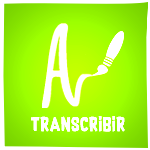
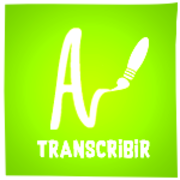
Botones a elegirJuego

diff --git a/Madaline/src/UI/ElegirJuego.java b/Madaline/src/UI/ElegirJuego.java
@@ -7,46 +7,44 @@ import static UI.Start.puntero;
 import java.awt.Toolkit;
 import javax.swing.JPanel;
 
-
 public class ElegirJuego extends javax.swing.JFrame {
 
     Controlador aplicacion;
     javax.swing.JFrame padre;
-    Wallpaper wall;
+    Wallpaper wall, texto_jugar;
 
     public ElegirJuego(javax.swing.JFrame padre, Controlador aplicacion) {
         initComponents();
-        //setExtendedState(MAXIMIZED_BOTH);
+        setExtendedState(MAXIMIZED_BOTH);
         // Maximizar ventana en linux
-        Toolkit tk = Toolkit.getDefaultToolkit();  
-        int xSize = ((int) tk.getScreenSize().getWidth());  
-        int ySize = ((int) tk.getScreenSize().getHeight());  
-        setSize(xSize,ySize);
+//        Toolkit tk = Toolkit.getDefaultToolkit();  
+//        int xSize = ((int) tk.getScreenSize().getWidth());  
+//        int ySize = ((int) tk.getScreenSize().getHeight());  
+//        setSize(xSize,ySize);
         //
+        pnl_botones.setLocation((pnl_texto.getWidth() - pnl_botones.getWidth()) / 2,
+                (pnl_texto.getHeight() - pnl_botones.getHeight()) / 2);
         this.padre = padre;
         this.aplicacion = aplicacion;
-
+        
         setOpaque();
         setWallpaper();
         setwhitepanel();
-       
 
     }
-    
-     private void setWallpaper(){
-         wall = new Wallpaper("/Iconos/wall_dificultad.jpg", pnl_fondo);
-//        wall.setSize(pnl_fondo.getSize());
-//        pnl_fondo.add(wall);
+
+    private void setWallpaper() {
+        wall = new Wallpaper("/Iconos/wallpaper_elegir.gif", pnl_fondo);
+        texto_jugar = new Wallpaper("/Iconos/texto_juegos.png", pnl_texto, true);
     }
 
     private void setwhitepanel() {
 
-        for (JPanel panel : new JPanel[]{pnl_botones}) {
+        for (JPanel panel : new JPanel[]{pnl_botones,pnl_texto}) {
 
             panel.setOpaque(false);
         }
     }
-
 
     private void setOpaque() {
 
@@ -84,13 +82,20 @@ public class ElegirJuego extends javax.swing.JFrame {
             }
         });
 
+        pnl_texto.setBackground(new java.awt.Color(26, 26, 206));
+
         pnl_botones.setBackground(new java.awt.Color(37, 176, 145));
+        pnl_botones.addComponentListener(new java.awt.event.ComponentAdapter() {
+            public void componentResized(java.awt.event.ComponentEvent evt) {
+                pnl_botonesComponentResized(evt);
+            }
+        });
 
         btn_facil.setIcon(new javax.swing.ImageIcon(getClass().getResource("/Iconos/facil_2.png"))); // NOI18N
         btn_facil.setAlignmentY(0.0F);
         btn_facil.setAutoscrolls(true);
         btn_facil.setRolloverIcon(new javax.swing.ImageIcon(getClass().getResource("/Iconos/facil_1.png"))); // NOI18N
-        btn_facil.setSelectedIcon(new javax.swing.ImageIcon(getClass().getResource("/Iconos/facil_3.png"))); // NOI18N
+        btn_facil.setSelectedIcon(new javax.swing.ImageIcon(getClass().getResource("/Iconos/facil_1.png"))); // NOI18N
         btn_facil.addMouseListener(new java.awt.event.MouseAdapter() {
             public void mouseEntered(java.awt.event.MouseEvent evt) {
                 btn_facilMouseEntered(evt);
@@ -104,7 +109,7 @@ public class ElegirJuego extends javax.swing.JFrame {
 
         btn_normal.setIcon(new javax.swing.ImageIcon(getClass().getResource("/Iconos/normal_2.png"))); // NOI18N
         btn_normal.setRolloverIcon(new javax.swing.ImageIcon(getClass().getResource("/Iconos/normal_1.png"))); // NOI18N
-        btn_normal.setSelectedIcon(new javax.swing.ImageIcon(getClass().getResource("/Iconos/normal_3.png"))); // NOI18N
+        btn_normal.setSelectedIcon(new javax.swing.ImageIcon(getClass().getResource("/Iconos/normal_1.png"))); // NOI18N
         btn_normal.addMouseListener(new java.awt.event.MouseAdapter() {
             public void mouseEntered(java.awt.event.MouseEvent evt) {
                 btn_normalMouseEntered(evt);
@@ -121,11 +126,10 @@ public class ElegirJuego extends javax.swing.JFrame {
         pnl_botonesLayout.setHorizontalGroup(
             pnl_botonesLayout.createParallelGroup(javax.swing.GroupLayout.Alignment.LEADING)
             .addGroup(pnl_botonesLayout.createSequentialGroup()
-                .addGap(24, 24, 24)
-                .addComponent(btn_facil, javax.swing.GroupLayout.PREFERRED_SIZE, 155, javax.swing.GroupLayout.PREFERRED_SIZE)
-                .addPreferredGap(javax.swing.LayoutStyle.ComponentPlacement.RELATED, 112, Short.MAX_VALUE)
-                .addComponent(btn_normal, javax.swing.GroupLayout.PREFERRED_SIZE, 151, javax.swing.GroupLayout.PREFERRED_SIZE)
-                .addContainerGap())
+                .addGap(3, 3, 3)
+                .addComponent(btn_facil, javax.swing.GroupLayout.PREFERRED_SIZE, 184, javax.swing.GroupLayout.PREFERRED_SIZE)
+                .addPreferredGap(javax.swing.LayoutStyle.ComponentPlacement.RELATED, 250, Short.MAX_VALUE)
+                .addComponent(btn_normal, javax.swing.GroupLayout.PREFERRED_SIZE, 186, javax.swing.GroupLayout.PREFERRED_SIZE))
         );
         pnl_botonesLayout.setVerticalGroup(
             pnl_botonesLayout.createParallelGroup(javax.swing.GroupLayout.Alignment.LEADING)
@@ -137,60 +141,57 @@ public class ElegirJuego extends javax.swing.JFrame {
                 .addContainerGap(javax.swing.GroupLayout.DEFAULT_SIZE, Short.MAX_VALUE))
         );
 
-        btn_volver.setText("volver al futuro");
-        btn_volver.addActionListener(new java.awt.event.ActionListener() {
-            public void actionPerformed(java.awt.event.ActionEvent evt) {
-                btn_volverActionPerformed(evt);
-            }
-        });
-
         javax.swing.GroupLayout pnl_textoLayout = new javax.swing.GroupLayout(pnl_texto);
         pnl_texto.setLayout(pnl_textoLayout);
         pnl_textoLayout.setHorizontalGroup(
             pnl_textoLayout.createParallelGroup(javax.swing.GroupLayout.Alignment.LEADING)
             .addGroup(pnl_textoLayout.createSequentialGroup()
                 .addContainerGap()
-                .addGroup(pnl_textoLayout.createParallelGroup(javax.swing.GroupLayout.Alignment.LEADING)
-                    .addGroup(pnl_textoLayout.createSequentialGroup()
-                        .addGap(357, 357, 357)
-                        .addComponent(btn_volver, javax.swing.GroupLayout.PREFERRED_SIZE, 146, javax.swing.GroupLayout.PREFERRED_SIZE))
-                    .addGroup(javax.swing.GroupLayout.Alignment.TRAILING, pnl_textoLayout.createSequentialGroup()
-                        .addComponent(pnl_botones, javax.swing.GroupLayout.PREFERRED_SIZE, javax.swing.GroupLayout.DEFAULT_SIZE, javax.swing.GroupLayout.PREFERRED_SIZE)
-                        .addGap(55, 55, 55)))
+                .addComponent(pnl_botones, javax.swing.GroupLayout.PREFERRED_SIZE, javax.swing.GroupLayout.DEFAULT_SIZE, javax.swing.GroupLayout.PREFERRED_SIZE)
                 .addContainerGap(javax.swing.GroupLayout.DEFAULT_SIZE, Short.MAX_VALUE))
         );
         pnl_textoLayout.setVerticalGroup(
             pnl_textoLayout.createParallelGroup(javax.swing.GroupLayout.Alignment.LEADING)
             .addGroup(javax.swing.GroupLayout.Alignment.TRAILING, pnl_textoLayout.createSequentialGroup()
-                .addContainerGap(javax.swing.GroupLayout.DEFAULT_SIZE, Short.MAX_VALUE)
+                .addContainerGap(124, Short.MAX_VALUE)
                 .addComponent(pnl_botones, javax.swing.GroupLayout.PREFERRED_SIZE, javax.swing.GroupLayout.DEFAULT_SIZE, javax.swing.GroupLayout.PREFERRED_SIZE)
-                .addGap(65, 65, 65)
-                .addComponent(btn_volver, javax.swing.GroupLayout.PREFERRED_SIZE, 51, javax.swing.GroupLayout.PREFERRED_SIZE)
-                .addGap(59, 59, 59))
+                .addGap(35, 35, 35))
         );
+
+        btn_volver.setText("volver al futuro");
+        btn_volver.setHorizontalTextPosition(javax.swing.SwingConstants.CENTER);
+        btn_volver.addActionListener(new java.awt.event.ActionListener() {
+            public void actionPerformed(java.awt.event.ActionEvent evt) {
+                btn_volverActionPerformed(evt);
+            }
+        });
 
         javax.swing.GroupLayout pnl_fondoLayout = new javax.swing.GroupLayout(pnl_fondo);
         pnl_fondo.setLayout(pnl_fondoLayout);
         pnl_fondoLayout.setHorizontalGroup(
-            pnl_fondoLayout.createParallelGroup(javax.swing.GroupLayout.Alignment.LEADING)
-            .addGroup(javax.swing.GroupLayout.Alignment.TRAILING, pnl_fondoLayout.createSequentialGroup()
-                .addContainerGap(76, Short.MAX_VALUE)
-                .addComponent(pnl_texto, javax.swing.GroupLayout.PREFERRED_SIZE, javax.swing.GroupLayout.DEFAULT_SIZE, javax.swing.GroupLayout.PREFERRED_SIZE)
-                .addGap(145, 145, 145))
+            pnl_fondoLayout.createParallelGroup(javax.swing.GroupLayout.Alignment.TRAILING)
+            .addComponent(pnl_texto, javax.swing.GroupLayout.PREFERRED_SIZE, javax.swing.GroupLayout.DEFAULT_SIZE, javax.swing.GroupLayout.PREFERRED_SIZE)
+            .addGroup(pnl_fondoLayout.createSequentialGroup()
+                .addContainerGap(javax.swing.GroupLayout.DEFAULT_SIZE, Short.MAX_VALUE)
+                .addComponent(btn_volver, javax.swing.GroupLayout.PREFERRED_SIZE, 146, javax.swing.GroupLayout.PREFERRED_SIZE)
+                .addContainerGap())
         );
         pnl_fondoLayout.setVerticalGroup(
             pnl_fondoLayout.createParallelGroup(javax.swing.GroupLayout.Alignment.LEADING)
-            .addGroup(javax.swing.GroupLayout.Alignment.TRAILING, pnl_fondoLayout.createSequentialGroup()
-                .addContainerGap(52, Short.MAX_VALUE)
-                .addComponent(pnl_texto, javax.swing.GroupLayout.PREFERRED_SIZE, 319, javax.swing.GroupLayout.PREFERRED_SIZE)
-                .addGap(58, 58, 58))
+            .addGroup(pnl_fondoLayout.createSequentialGroup()
+                .addComponent(pnl_texto, javax.swing.GroupLayout.DEFAULT_SIZE, javax.swing.GroupLayout.DEFAULT_SIZE, Short.MAX_VALUE)
+                .addPreferredGap(javax.swing.LayoutStyle.ComponentPlacement.RELATED)
+                .addComponent(btn_volver, javax.swing.GroupLayout.PREFERRED_SIZE, 51, javax.swing.GroupLayout.PREFERRED_SIZE)
+                .addGap(6, 6, 6))
         );
 
         javax.swing.GroupLayout layout = new javax.swing.GroupLayout(getContentPane());
         getContentPane().setLayout(layout);
         layout.setHorizontalGroup(
             layout.createParallelGroup(javax.swing.GroupLayout.Alignment.LEADING)
-            .addComponent(pnl_fondo, javax.swing.GroupLayout.DEFAULT_SIZE, javax.swing.GroupLayout.DEFAULT_SIZE, Short.MAX_VALUE)
+            .addGroup(layout.createSequentialGroup()
+                .addComponent(pnl_fondo, javax.swing.GroupLayout.DEFAULT_SIZE, javax.swing.GroupLayout.DEFAULT_SIZE, Short.MAX_VALUE)
+                .addGap(0, 0, 0))
         );
         layout.setVerticalGroup(
             layout.createParallelGroup(javax.swing.GroupLayout.Alignment.LEADING)
@@ -211,6 +212,8 @@ public class ElegirJuego extends javax.swing.JFrame {
         super.setVisible(b); //To change body of generated methods, choose Tools | Templates.
         pnl_texto.setLocation((pnl_fondo.getWidth() - pnl_texto.getWidth()) / 2,
                 (pnl_fondo.getHeight() - pnl_texto.getHeight()) / 2);
+        pnl_botones.setLocation((pnl_texto.getWidth() - pnl_botones.getWidth()) / 2,
+                (pnl_texto.getHeight() - pnl_botones.getHeight()) / 2);
     }
 
     private void btn_facilMouseEntered(java.awt.event.MouseEvent evt) {//GEN-FIRST:event_btn_facilMouseEntered
@@ -239,8 +242,15 @@ public class ElegirJuego extends javax.swing.JFrame {
     }//GEN-LAST:event_btn_volverActionPerformed
 
     private void pnl_fondoComponentResized(java.awt.event.ComponentEvent evt) {//GEN-FIRST:event_pnl_fondoComponentResized
-        //wall.setSize(pnl_fondo.getSize());
+        pnl_botones.setLocation((pnl_texto.getWidth() - pnl_botones.getWidth()) / 2,
+                (pnl_texto.getHeight() - pnl_botones.getHeight()) / 2);
+        pnl_texto.setLocation((pnl_fondo.getWidth() - pnl_texto.getWidth()) / 2,
+                (pnl_fondo.getHeight() - pnl_texto.getHeight()) / 2);
     }//GEN-LAST:event_pnl_fondoComponentResized
+
+    private void pnl_botonesComponentResized(java.awt.event.ComponentEvent evt) {//GEN-FIRST:event_pnl_botonesComponentResized
+
+    }//GEN-LAST:event_pnl_botonesComponentResized
 
     // Variables declaration - do not modify//GEN-BEGIN:variables
     private javax.swing.JButton btn_facil;

diff --git a/Madaline/src/UI/Wallpaper.java b/Madaline/src/UI/Wallpaper.java
@@ -20,7 +20,7 @@ public class Wallpaper extends JPanel{
     JPanel container;
     String nombre;
     
-    
+    boolean cuadrado=false;
     public Wallpaper (String nombre, JPanel contenedor){
         this.nombre = nombre;
         this.setBackground(Color.white);
@@ -43,23 +43,31 @@ public class Wallpaper extends JPanel{
         });
     }
     
+    public Wallpaper (String nombre, JPanel contenedor, boolean cuadrado){
+        this(nombre, contenedor);
+        this.cuadrado=cuadrado;
+        
+    }
+    
+       
     @Override
     public void paintComponent (Graphics g){
         
         super.paintComponent(g);
         Dimension tam=getSize();
-        
-        ImageIcon imagen=new ImageIcon(getClass().getResource(nombre));
-        
-        
-        g.drawImage(imagen.getImage(), 0, 0, tam.width,tam.height,null);
-        setOpaque(false);
-       String ext = nombre.substring(nombre.length()-3);
        
+        ImageIcon imagen = new ImageIcon(getClass().getResource(nombre));
+
+        g.drawImage(imagen.getImage(), 0, 0, cuadrado ? tam.height : tam.width, tam.height, null);
+       
+
+        setOpaque(false);
+        String ext = nombre.substring(nombre.length() - 3);
+
         if (ext.equals("gif")) {
             timer.start();
         }
-        
+
     }
     
      Timer timer = new Timer(10, new ActionListener() {

diff --git a/Madaline/src/UI/Start.java b/Madaline/src/UI/Start.java
@@ -21,11 +21,11 @@ public class Start extends javax.swing.JFrame {
         setLocationRelativeTo(null);
         setExtendedState(MAXIMIZED_BOTH);
         
-        // Maximizar ventana en linux
-        Toolkit tk = Toolkit.getDefaultToolkit();  
-        int xSize = ((int) tk.getScreenSize().getWidth());  
-        int ySize = ((int) tk.getScreenSize().getHeight());  
-        setSize(xSize,ySize);
+//        // Maximizar ventana en linux
+//        Toolkit tk = Toolkit.getDefaultToolkit();  
+//        int xSize = ((int) tk.getScreenSize().getWidth());  
+//        int ySize = ((int) tk.getScreenSize().getHeight());  
+//        setSize(xSize,ySize);
         //
         CargarSonidos();
 
@@ -90,15 +90,12 @@ public class Start extends javax.swing.JFrame {
 
     private void setWallpaper() {
         wall = new Wallpaper("/Iconos/wallpaper_start.gif", pnl_wallpaper);
-//        wall.setSize(pnl_wallpaper.getSize());
-//        pnl_wallpaper.add(wall);
+
     }
     
      private void setfondo() {
         fondo = new Wallpaper("/Iconos/fondo_logo.png", pnl_fondo);
-//        fondo.setSize(pnl_fondo.getSize());
-//        fondo.setSize(pnl_fondo.getSize());
-//        pnl_fondo.add(fondo);
+
     }
 
     private void AjustarWallpaper() {
